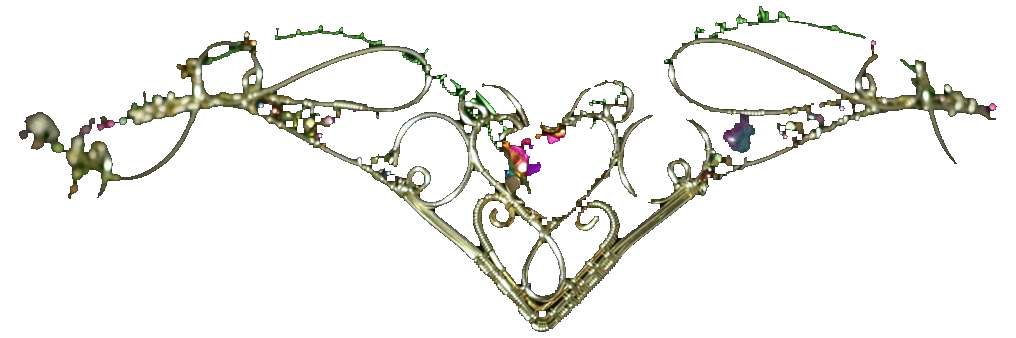
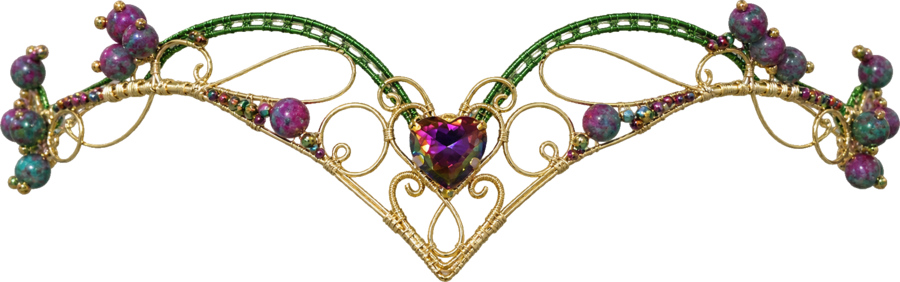
Prepare three frontal transparent diadem models and calibration overlays

diff --git a/vk_jewelry_bot/фото для калибровки/диадемы/README.md b/vk_jewelry_bot/фото для калибровки/диадемы/README.md
@@ -1,0 +1,39 @@
+# Диадемы для примерки анфас
+
+Три фронтальные модели созданы по нескольким фотографиям каждого изделия.
+Прозрачные PNG содержат переднюю часть диадемы и видимые участки у висков.
+Манекен, фон и скрытая задняя часть обруча отсутствуют; просветы узора прозрачные.
+Это генеративная реконструкция: мелкие детали проволоки, камней и бусин могут
+отличаться от оригинала. Исходные фото сохранены.
+
+| Диадема | Полноразмерный прозрачный слой |
+|---|---|
+| Ранняя осень | `rannyaya-osen.png` |
+| Течение | `techenie.png` |
+| Зимние ягоды | `zimnie-yagody.png` |
+
+Слои 1122×1402 накладываются без смещения на `../1000013928.jpg`.
+Варианты 1000013929–1000013932 содержат тот же синтетический портрет анфас.
+Ширина украшения на референсе — 490 px, горизонтальный центр — 555 px.
+Точка крепления (50% ширины, 90% высоты слоя украшения) находится в (555, 290).
+Посадка выбрана вручную по верхней части лба и вискам, без наклона.
+
+Каталожные PNG шириной 900 px находятся в
+`../../bot/jewelry/gallery/imladris/diadem/`; одинаковые копии — в
+`../../scripts/catalog_import/work/cutout/diadem/`.
+Имена файлов, ID и названия записей сохранены. У «Зимних ягод» подготовлена
+сама диадема, без длинных боковых серёг, как и в прежнем каталожном ассете.
+
+В `manifest.json` для трёх диадем задан `offset_y: 0.20`: нижняя точка узора
+опускается от линии волос на верхнюю часть лба. Масштаб и угол по-прежнему
+определяет существующая программа, anchor_scale остаётся 1.
+Предварительная очистка слабого альфа-фона использует текущий порог программы
+`ALPHA_CLEAN_THRESHOLD = 160`; сохранившийся альфа-канал не заменяется сплошной маской.
+
+Проверены прозрачность, размеры, идентичность копий и ручное наложение анфас.
+Автоматическая посадка MediaPipe в этом окружении не проверена: загрузка
+FaceLandmarker остановилась из-за отсутствия libGLESv2.so.2. Настройки смещения
+нужно дополнительно проверить в рабочем окружении бота на разных лицах.
+
+Повторный запуск импорта может перезаписать PNG и настройки manifest.json.
+Необходимо сохранить эти изображения и offset_y при пересборке каталога.

diff --git a/vk_jewelry_bot/bot/jewelry/gallery/imladris/NEEDS_REVIEW.md b/vk_jewelry_bot/bot/jewelry/gallery/imladris/NEEDS_REVIEW.md
@@ -87,7 +87,10 @@
   на прозрачном фоне; слои для референса находятся в
   `../../../../фото для калибровки/браслеты/`. Мелкие детали требуют сравнения
   с оригинальными украшениями;
-- **все диадемы** — чёрный манекен-голова убран порогом по яркости;
+- **три диадемы** заменены фронтальными генеративными PNG с прозрачными
+  просветами узора. Ручная примерка анфас и инструкции —
+  `../../../../фото для калибровки/диадемы/`; задан `offset_y: 0.20`.
+  Автоматическую посадку MediaPipe необходимо проверить в окружении бота;
 - **серьги**, снятые на кружке и стеклянной банке, обрезаны по кадру до самих
   серёг; те, что лежали на столе, заменены на кадры, где они висят;
 - у **кулонов** отрезаны длинные цепочки: на шее бот рисует свою
